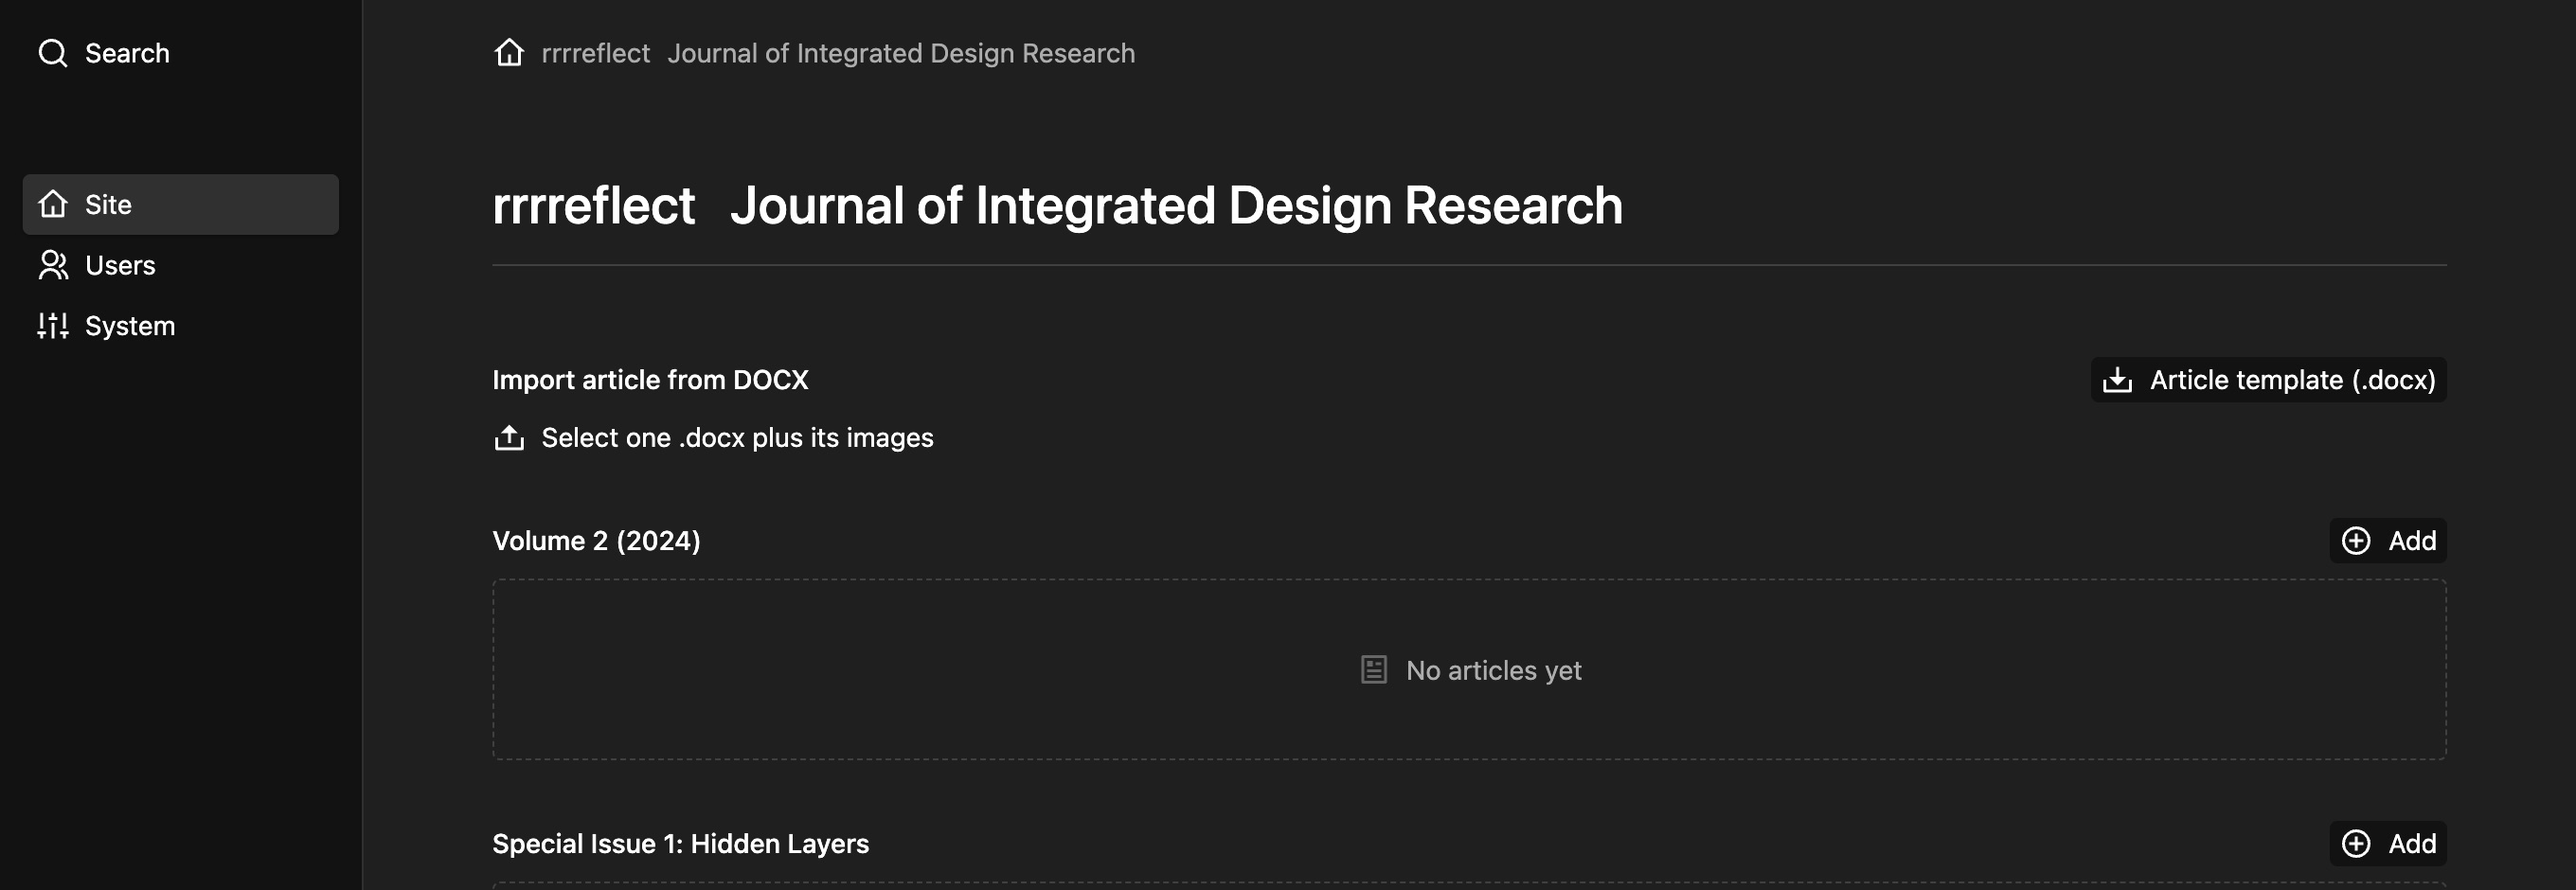
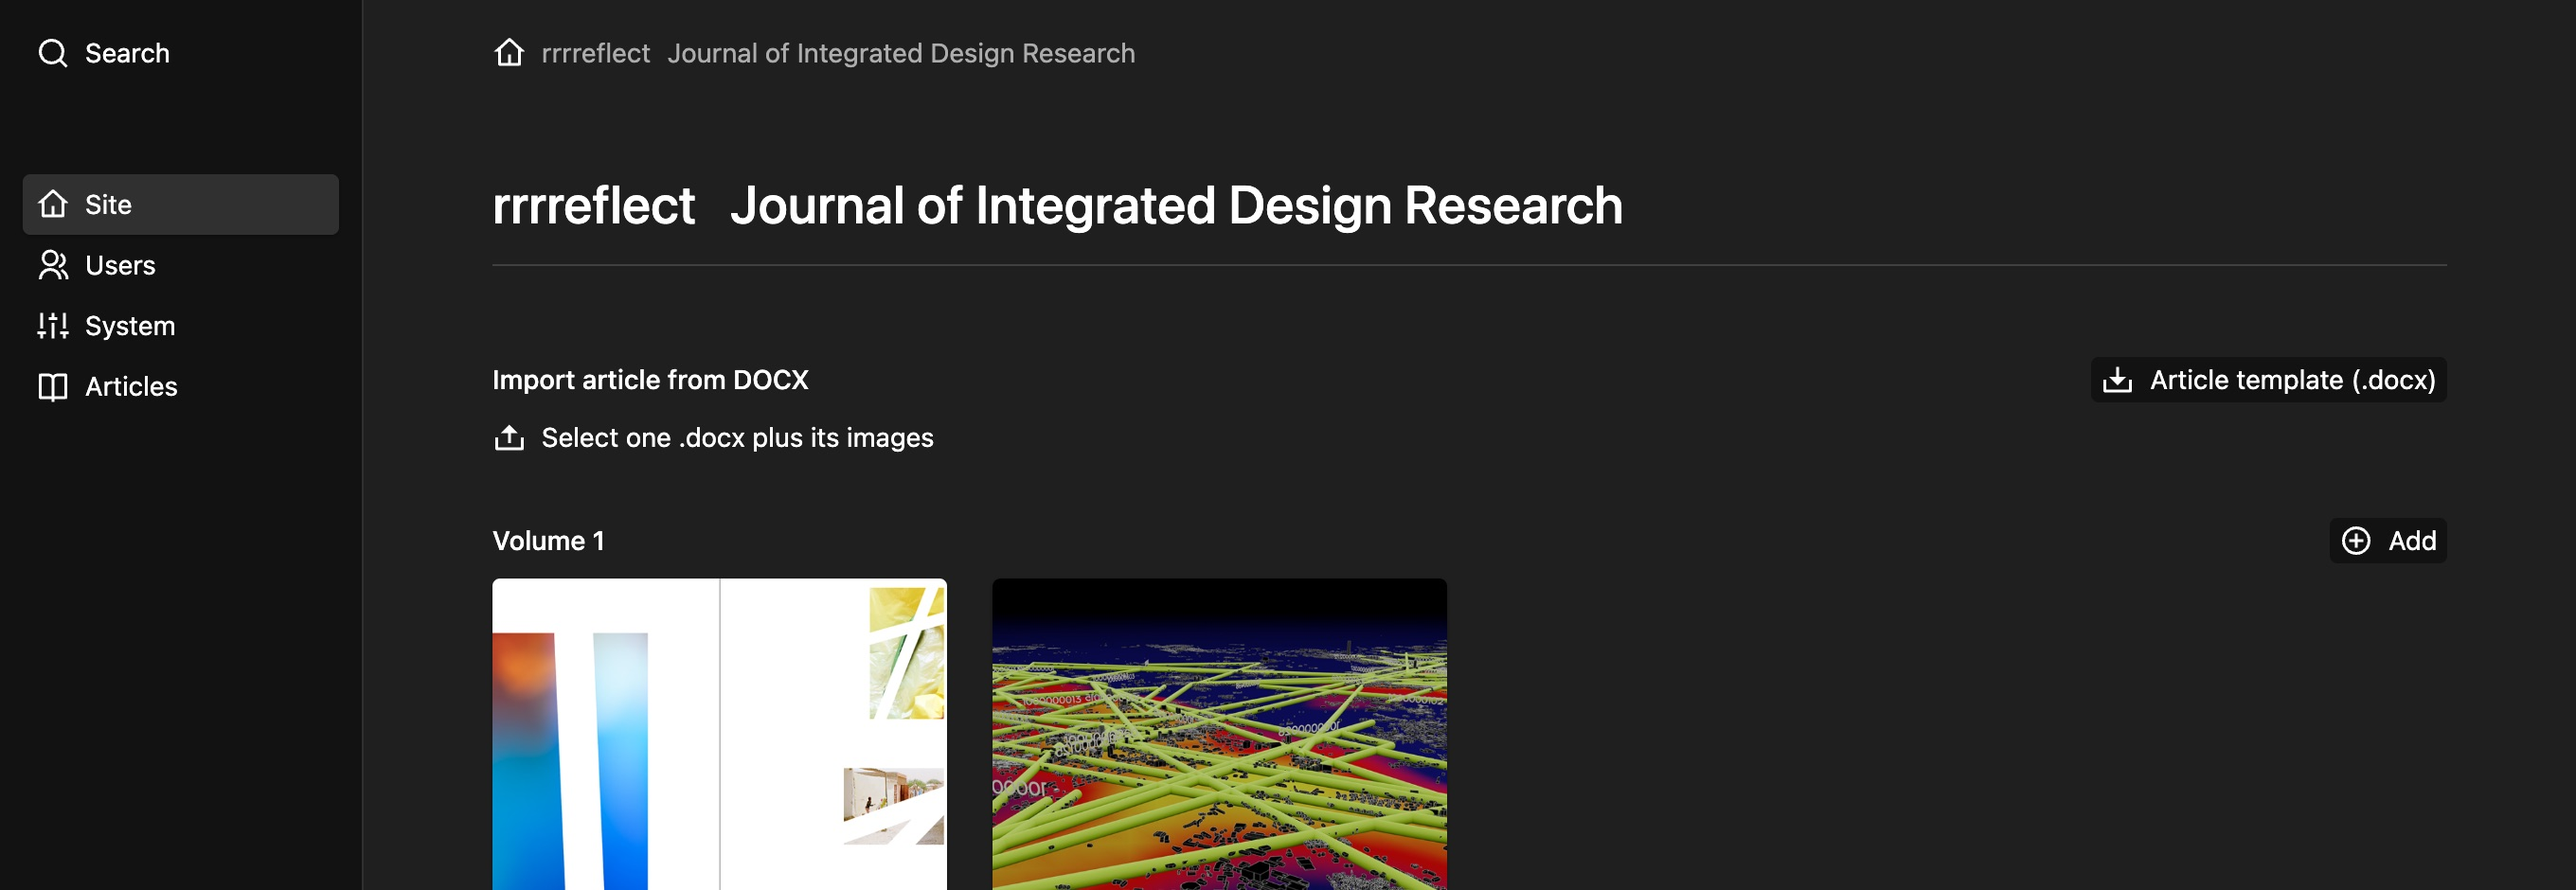
guide: example email instead of a real one in the screenshots, dashboard shot shows the new sidebar

diff --git a/front/public/docs/index.html b/front/public/docs/index.html
@@ -128,7 +128,7 @@
 <h2 id="import">3. Import an article</h2>
 <p>The import box is at the top of the Panel dashboard. The <strong>Article template (.docx)</strong> button on the right downloads the template.</p>
 <figure>
-  <img src="/docs/img/02-dashboard.jpg?v=6e9a2260" alt="Kirby Panel dashboard with the 'Import article from DOCX' box at the top" loading="lazy">
+  <img src="/docs/img/02-dashboard.jpg?v=7d7fb401" alt="Kirby Panel dashboard with the 'Import article from DOCX' box at the top" loading="lazy">
   <figcaption>The dashboard. Click “Select one .docx plus its images”.</figcaption>
 </figure>
 <ol class="steps">
@@ -167,7 +167,7 @@
 <h2 id="edit">5. Edit the article</h2>
 <p>The article page has the text on the left and the details (category, abstract, notes, tags, …) on the right.</p>
 <figure>
-  <img src="/docs/img/05-article.jpg?v=aecb3a61" alt="Article page in the Panel with text blocks on the left and fields on the right" loading="lazy">
+  <img src="/docs/img/05-article.jpg?v=c8894425" alt="Article page in the Panel with text blocks on the left and fields on the right" loading="lazy">
   <figcaption>Click any block to edit it. “Add” inserts a new heading, paragraph, quote or image.</figcaption>
 </figure>
 <ul>
@@ -180,7 +180,7 @@
 <h2 id="history">6. Edit history</h2>
 <p>Below the text, <strong>Edit history</strong> lists the last 50 saves: when, who, and which fields changed. Click an entry to see exactly what changed: removed text in red, added text in green.</p>
 <figure>
-  <img src="/docs/img/06-history.png?v=a4fbb81f" alt="Edit history with one entry expanded, showing removed and added lines" loading="lazy">
+  <img src="/docs/img/06-history.png?v=c0c768df" alt="Edit history with one entry expanded, showing removed and added lines" loading="lazy">
   <figcaption>The history also records PDF layout changes, marked “(PDF editor)”, in the <em>Print CSS</em> tab of the Articles page.</figcaption>
 </figure>
 <p>There is no undo button. To go back, copy the old text from the red lines and save it again.</p>
